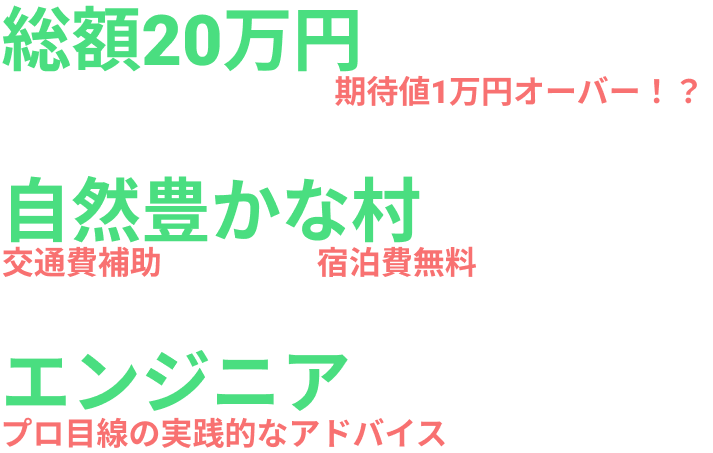
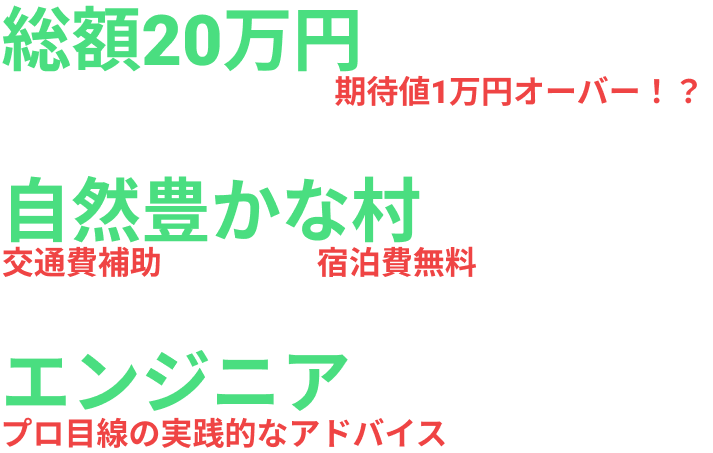
修正

diff --git a/katsuraohackathon-2024-lp/app/component/Sponsors.tsx b/katsuraohackathon-2024-lp/app/component/Sponsors.tsx
@@ -2,17 +2,13 @@ import Sponsor from './Sponsor';
 
 const Sponsors = () => (
     <>
-        <Sponsor title="株式会社スカラパートナーズ" logo_url="" hp_url="https://scala-partners.com/"
-        describe="震災を乗り越え、今年で村制100周年を迎えた葛尾村。 ITを駆使した新時代へと歩みを進めている この地でハッカソンが開催されます。 人と人、技術と発想、そして現在と未来。 これらをつなぎ合わせ、皆さんが「エンジニア」にとどまらず、広い視野を持ち新たな価値を創造する「イノベーター」へと成長していくことを、私たちは全力でサポートします。 新たな「つながり」を創り出すこの旅を通じて、葛尾村の未来を一緒に創り上げましょう。"/>
+        <Sponsor title="株式会社スカラコミュニケーションズ" logo_url="" hp_url="https://scala-com.jp/"
+        describe=""/>
         <Sponsor title="株式会社HANERU葛尾" logo_url="" hp_url="https://haneru-katsurao.com/"
         describe="" />
         <Sponsor title="株式会社ORENDA WORLD" logo_url="" hp_url="https://orenda.co.jp/"
         describe="" />
         <Sponsor title="福島イノベ機構" logo_url="" hp_url="https://www.fipo.or.jp/"
-        describe="" />
-        <Sponsor title="" logo_url="" hp_url=""
-        describe="" />
-        <Sponsor title="" logo_url="" hp_url=""
         describe="" />
     </>
 )

diff --git a/katsuraohackathon-2024-lp/app/component/About.tsx b/katsuraohackathon-2024-lp/app/component/About.tsx
@@ -4,7 +4,7 @@ const About = () => (
     <div className="flex flex-col item-centerflex flex-col items-center md:justify-center">
         <p className="md:text-2xl  mb-0 md:ml-32 md:mr-32 break-words">
             福島にある<span className="text-green-400 md:text-3xl text-xl">葛尾村</span>という集落を舞台に<span className="text-green-400 md:text-3xl text-xl">地域密着型</span>のハッカソンを開催します！
-            村でエビの養殖をしている<span className="text-red-400">株式会社HANERU葛尾様</span>での業務体験・ヒアリングから<span className="text-red-400">要件定義</span>を行い、ユーザーを意識した<span className="text-red-400 md:text-3xl text-xl">実践的な開発経験</span>を積むことができます！
+            村でエビの養殖をしている<span className="text-red-500">株式会社HANERU葛尾様</span>での業務体験・ヒアリングから<span className="text-red-500">要件定義</span>を行い、ユーザーを意識した<span className="text-red-500 md:text-3xl text-xl">実践的な開発経験</span>を積むことができます！
         </p>
         <ButtonGroup/>
     </div>

diff --git a/katsuraohackathon-2024-lp/app/component/Sponsor.tsx b/katsuraohackathon-2024-lp/app/component/Sponsor.tsx
@@ -21,7 +21,7 @@ const Sponsors = ({
             <h1 className="text-5xl">{title}</h1>
             {logo_url&& <Image src={logo_url} alt="logo" width={200} height={100}/>}
             <p className="font-bold md:font-light text-sm md:text-xl mb-6 md:ml-32 md:mr-32 mr-8 ml-8">{describe}</p>
-            {hp_url&&<a href={hp_url} className="border-b-2 border-black-300 hover:text-gray-300">{title}についてはこちら</a>}
+            {hp_url&&<a href={hp_url} target="_blank" className="border-b-2 border-black-300 hover:text-gray-300">{title}についてはこちら</a>}
         </div>
     </>
 )

diff --git a/katsuraohackathon-2024-lp/app/component/FixedButton.tsx b/katsuraohackathon-2024-lp/app/component/FixedButton.tsx
@@ -3,10 +3,12 @@ import React from 'react';
 
 function FixedButton() {
   return (
-    <div className="fixed top-4 right-4">
-      <button className="bg-c-green-orange text-white py-2 px-4 rounded hover:bg-blue-700">
+    <div className="z-30 fixed top-4 right-4">
+      <a href="https://docs.google.com/forms/d/e/1FAIpQLSfixCWv-gs-M7WPIsVYrdKgZFC6hXvMep3MjM6xuxYFCjJQkw/viewform"
+        className="bg-c-green-orange bg-red-400 text-white py-2 px-4 rounded hover:bg-blue-400"
+        target="_blank">
         お申し込みはこちら！！
-      </button>
+      </a>
     </div>
   );
 }

diff --git a/katsuraohackathon-2024-lp/app/component/Entry.tsx b/katsuraohackathon-2024-lp/app/component/Entry.tsx
@@ -17,8 +17,8 @@ const Entry = () => (
     <div className=" mb-10 md:mb-20">
         <p className="font-extrabold font-title md:border-b md:border-katurao-black pb-2 md:mb-2">申込締切</p>
         <p className="font-bold md:font-light text-sm md:text-xl">
-            7月31日まで。<br />
-            選考結果は8月7日頃代表者へご連絡します。</p>
+            <span className="text-2xl font-bold text-red-500">7/21(日)</span>まで。<br />
+            選考結果は７月中に代表者へご連絡します。</p>
     </div>
 </div>
 )

diff --git a/katsuraohackathon-2024-lp/app/component/ButtonGroup.tsx b/katsuraohackathon-2024-lp/app/component/ButtonGroup.tsx
@@ -4,7 +4,7 @@ function ButtonGroup() {
         <a href="#katsurao" className="border-2 border-green-300 text-white py-2 md:px-12 px-4 md:mr-36 mr-4 rounded hover:bg-green-300">
           葛尾村
         </a>
-        <a href="#株式会社HANERU葛尾" className="border-2 border-red-300 text-white py-2 md:px-12 px-4 rounded hover:bg-red-300">
+        <a href="#株式会社HANERU葛尾" className="border-2 border-red-400 text-white py-2 md:px-12 px-4 rounded hover:bg-red-400">
           HANERU
         </a>
       </div>

diff --git a/katsuraohackathon-2024-lp/tailwind.config.js b/katsuraohackathon-2024-lp/tailwind.config.js
@@ -21,7 +21,7 @@ module.exports = {
       },
       colors: {
         'c-green': 'rgba(34, 139, 34, 0.4)', // 緑
-        'c-orange':'rgba(204, 122, 41, 0.4)', // オレンジ
+        'c-orange':'rgba(153, 73, 0, 0.4)', // オレンジ
         'c-black': 'rgba(0, 0, 0, 0.4)',       // 黒
         'c-white': 'rgba(100, 100, 100, 0.4)',       // しろ
       },
